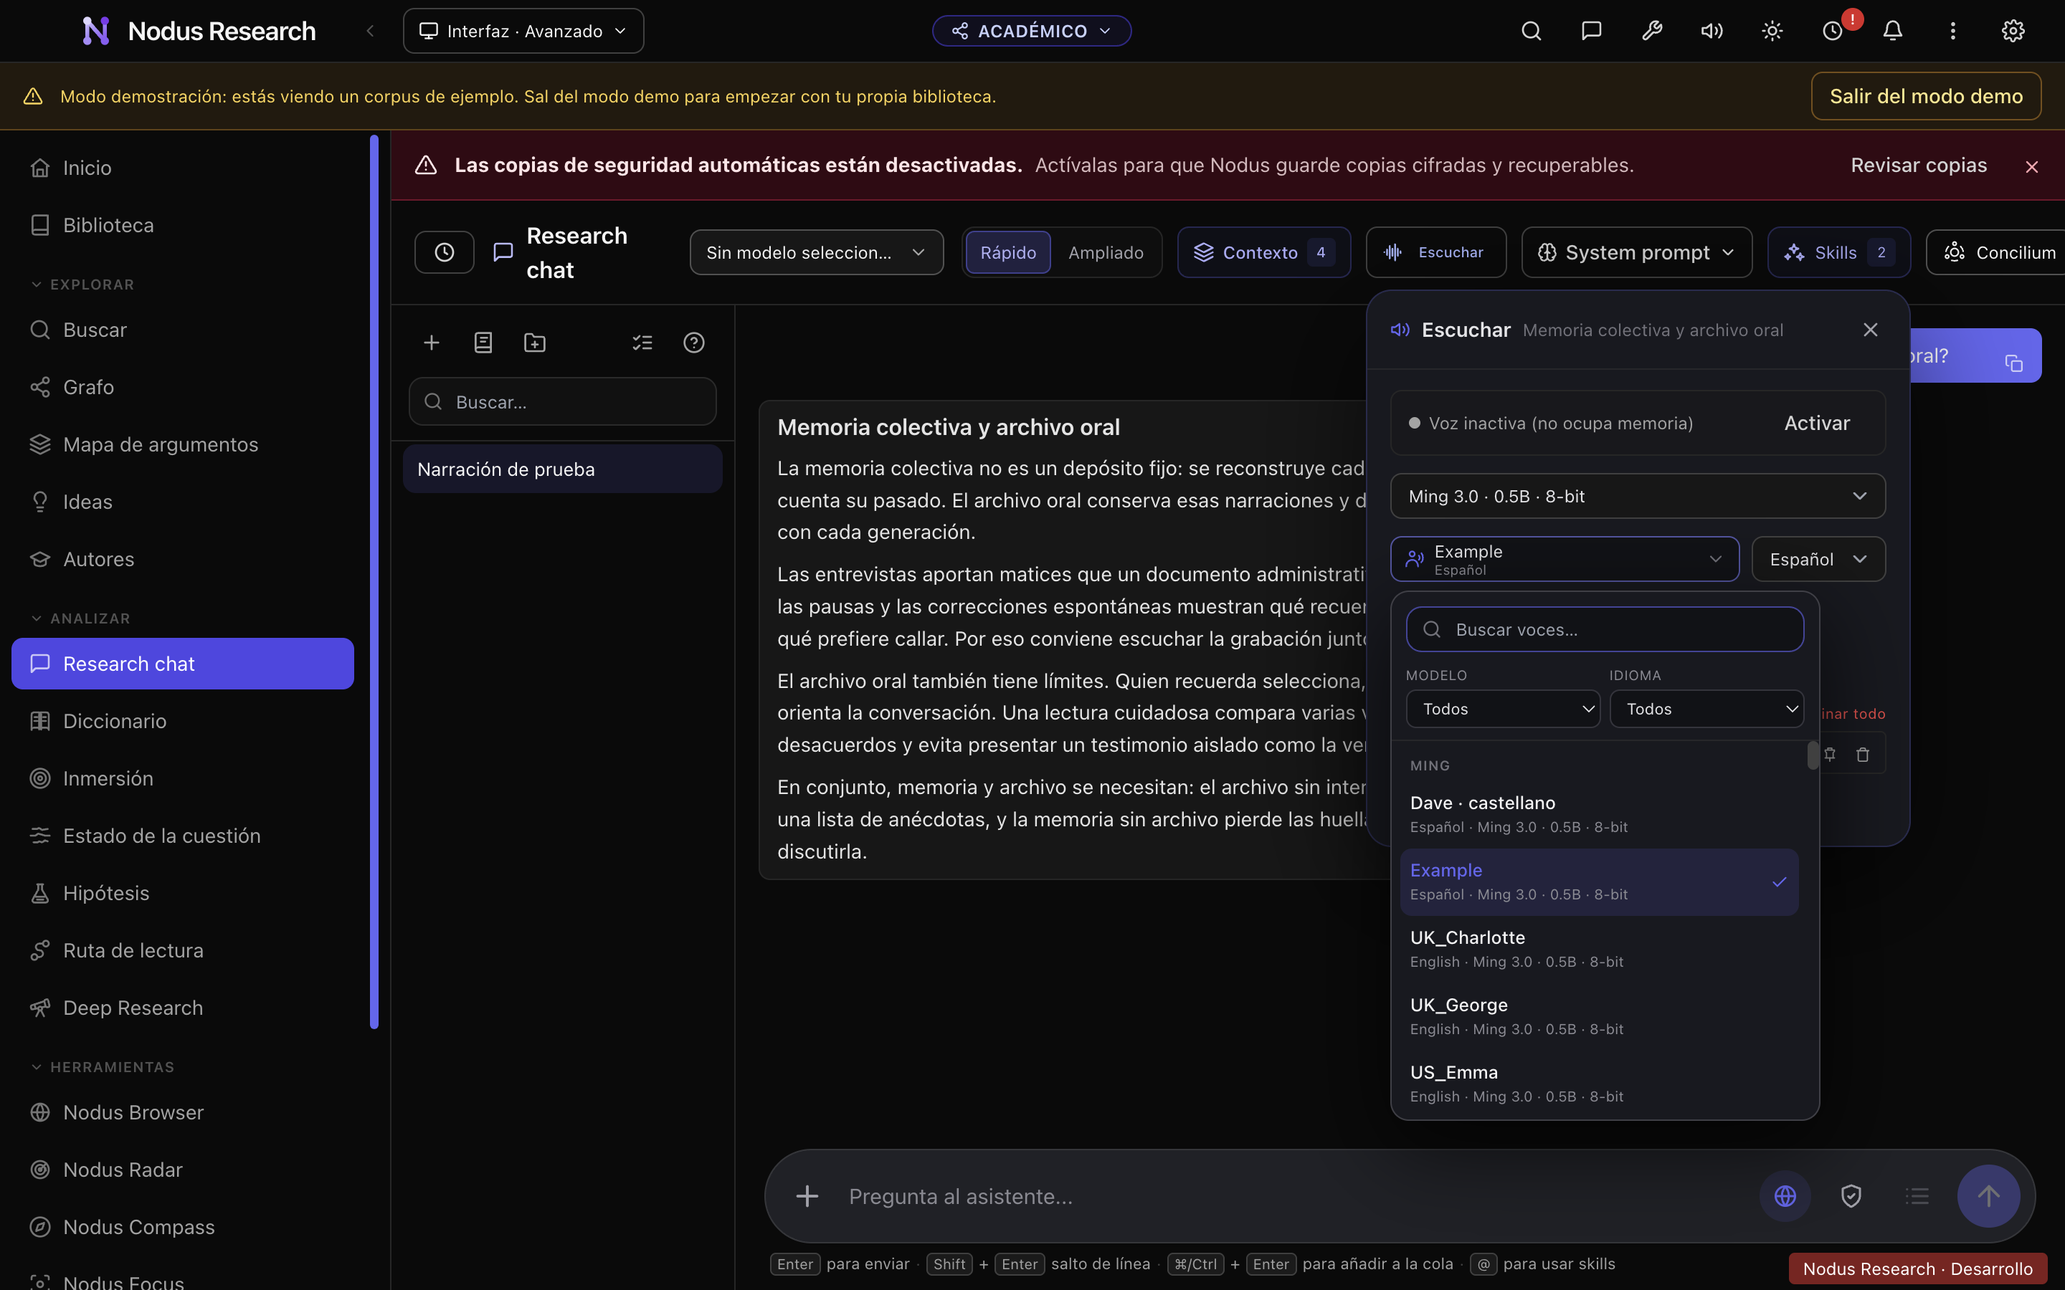
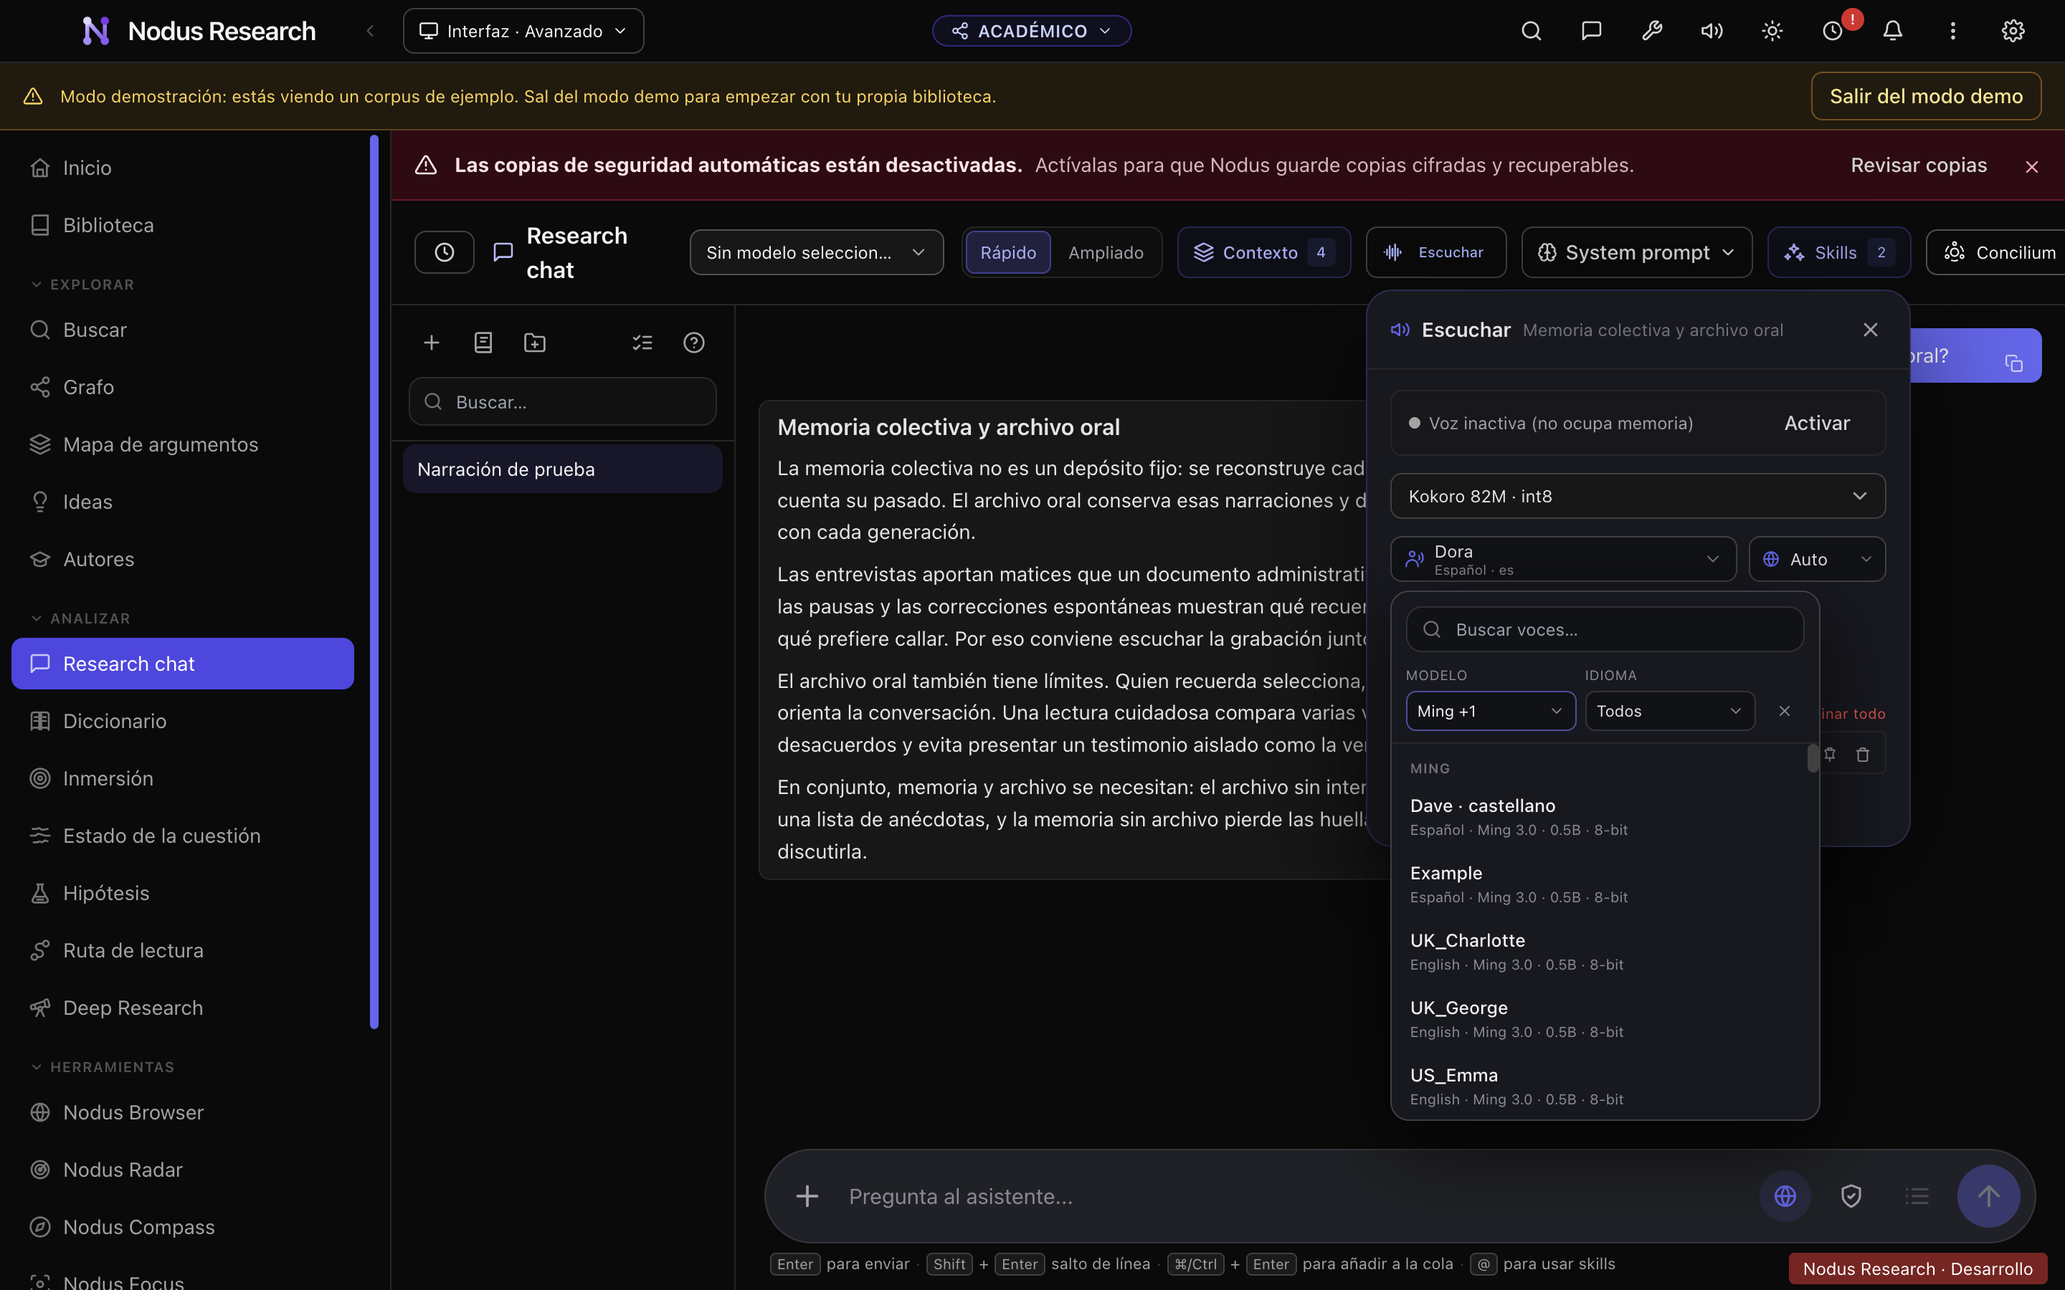
feat(narration): style and multi-select the voice filters
The model and language filters are now styled multi-select menus with checkboxes, an explicit Todos choice and a compact per-voice summary, so one or several engines and languages can be combined. The narration language select uses the same styled surface with an icon and chevron. Verified Ming+Kokoro (140 voices), Español+English (39), clear back to 242, dark/light panels and Escape layering.

diff --git a/src/components/narration/VoicePicker.tsx b/src/components/narration/VoicePicker.tsx
@@ -29,8 +29,9 @@ export function VoicePicker({ options, value, selectedName, onSelect, disabled =
 }) {
   const [open, setOpen] = useState(false);
   const [query, setQuery] = useState('');
-  const [engine, setEngine] = useState<'all' | 'ming' | 'phonon' | 'kokoro'>('all');
-  const [language, setLanguage] = useState<'all' | TtsLanguage>('all');
+  const [engineFilter, setEngineFilter] = useState<Array<'ming' | 'phonon' | 'kokoro'>>([]);
+  const [languageFilter, setLanguageFilter] = useState<TtsLanguage[]>([]);
+  const [openFilter, setOpenFilter] = useState<'engine' | 'language' | null>(null);
   const trigger = useRef<HTMLButtonElement>(null);
   const popup = useRef<HTMLDivElement>(null);
   const search = useRef<HTMLInputElement>(null);
@@ -50,8 +51,8 @@ export function VoicePicker({ options, value, selectedName, onSelect, disabled =
   const filtered = useMemo(() => {
     const needle = normalize(query.trim());
     return options.filter((option) => {
-      if (engine !== 'all' && option.engine !== engine) return false;
-      if (language !== 'all' && option.voice.language !== language) return false;
+      if (engineFilter.length && !engineFilter.includes(option.engine)) return false;
+      if (languageFilter.length && !languageFilter.includes(option.voice.language)) return false;
       if (!needle) return true;
       const languageLabel = TTS_LANGUAGES.find((entry) => entry.code === option.voice.language)?.label ?? '';
       return normalize([option.voice.name, option.voice.locale ?? '', option.voice.description ?? '', languageLabel].join(' ')).includes(needle);
@@ -60,13 +61,25 @@ export function VoicePicker({ options, value, selectedName, onSelect, disabled =
       return order[a.engine] - order[b.engine]
         || a.voice.name.localeCompare(b.voice.name, undefined, { sensitivity: 'base', numeric: true });
     });
-  }, [options, engine, language, query]);
+  }, [options, engineFilter, languageFilter, query]);
 
   const groups = useMemo(() => {
     const byEngine = new Map<'ming' | 'phonon' | 'kokoro', VoicePickerOption[]>();
     for (const option of filtered) byEngine.set(option.engine, [...(byEngine.get(option.engine) ?? []), option]);
     return [...byEngine.entries()];
   }, [filtered]);
+
+  const engineSummary = engineFilter.length === 0
+    ? t('Todos')
+    : engineFilter.length === 1
+      ? engines.find(([id]) => id === engineFilter[0])?.[1] ?? t('Todos')
+      : `${engines.find(([id]) => id === engineFilter[0])?.[1] ?? ''} +${engineFilter.length - 1}`;
+  const languageSummary = languageFilter.length === 0
+    ? t('Todos')
+    : languageFilter.length === 1
+      ? languages.find((entry) => entry.code === languageFilter[0])?.label ?? t('Todos')
+      : `${languages.find((entry) => entry.code === languageFilter[0])?.label ?? ''} +${languageFilter.length - 1}`;
+  const toggle = <T,>(list: T[], value: T) => list.includes(value) ? list.filter((entry) => entry !== value) : [...list, value];
 
   const close = (restoreFocus = true) => {
     setOpen(false);
@@ -130,10 +143,11 @@ export function VoicePicker({ options, value, selectedName, onSelect, disabled =
 
   return <div className="voice-picker" onKeyDown={(event) => {
     if (event.key === 'Escape' && open) {
-      // The header balloon closes on a handled Escape too; keep the picker layer first.
+      // First close the filter panel, then the picker; never the header balloon.
       event.preventDefault();
       event.stopPropagation();
-      close();
+      if (openFilter) setOpenFilter(null);
+      else close();
     }
   }}>
     <button
@@ -179,23 +193,30 @@ export function VoicePicker({ options, value, selectedName, onSelect, disabled =
         />
       </label>
       <div className="voice-picker-filters">
-        <label className="voice-picker-filter">
-          <span>{t('Modelo')}</span>
-          <select aria-label={t('Modelo')} value={engine} onChange={(event) => setEngine(event.target.value as typeof engine)} data-testid="listen-voice-filter-model">
-            <option value="all">{t('Todos')}</option>
-            {engines.map(([id, name]) => <option key={id} value={id}>{name}</option>)}
-          </select>
-        </label>
-        <label className="voice-picker-filter">
-          <span>{t('Idioma')}</span>
-          <select aria-label={t('Idioma')} value={language} onChange={(event) => setLanguage(event.target.value as typeof language)} data-testid="listen-voice-filter-language">
-            <option value="all">{t('Todos')}</option>
-            {languages.map((entry) => <option key={entry.code} value={entry.code}>{entry.label}</option>)}
-          </select>
-        </label>
-        {(engine !== 'all' || language !== 'all' || query) && <button type="button" className="voice-picker-clear" onClick={() => { setEngine('all'); setLanguage('all'); setQuery(''); }} title={t('Limpiar')} aria-label={t('Limpiar')}><Icon name="x" size={12} /></button>}
+        <div className="voice-picker-filter">
+          <span className="voice-picker-filter-label">{t('Modelo')}</span>
+          <button type="button" className={`voice-picker-filter-trigger ${openFilter === 'engine' ? 'is-open' : ''}`} aria-label={t('Modelo')} aria-haspopup="listbox" aria-expanded={openFilter === 'engine'} data-testid="listen-voice-filter-model" onClick={() => setOpenFilter((value) => value === 'engine' ? null : 'engine')}>
+            <span>{engineSummary}</span><Icon name="chevronDown" size={12} />
+          </button>
+        </div>
+        <div className="voice-picker-filter">
+          <span className="voice-picker-filter-label">{t('Idioma')}</span>
+          <button type="button" className={`voice-picker-filter-trigger ${openFilter === 'language' ? 'is-open' : ''}`} aria-label={t('Idioma')} aria-haspopup="listbox" aria-expanded={openFilter === 'language'} data-testid="listen-voice-filter-language" onClick={() => setOpenFilter((value) => value === 'language' ? null : 'language')}>
+            <span>{languageSummary}</span><Icon name="chevronDown" size={12} />
+          </button>
+        </div>
+        {(engineFilter.length > 0 || languageFilter.length > 0 || query) && <button type="button" className="voice-picker-clear" onClick={() => { setEngineFilter([]); setLanguageFilter([]); setQuery(''); setOpenFilter(null); }} title={t('Limpiar')} aria-label={t('Limpiar')}><Icon name="x" size={12} /></button>}
       </div>
-      <div className="voice-picker-list" id={listId} role="listbox" aria-label={t('Todas las voces')}>
+      {openFilter === 'engine' || openFilter === 'language' ? <div className="voice-picker-choice-panel" role="listbox" aria-multiselectable="true" aria-label={openFilter === 'engine' ? t('Modelo') : t('Idioma')} data-testid="listen-voice-filter-panel">
+        <div className="voice-picker-choice-head"><strong>{openFilter === 'engine' ? t('Modelo') : t('Idioma')}</strong><button type="button" className="voice-picker-choice-close" aria-label={t('Cerrar')} title={t('Cerrar')} onClick={() => setOpenFilter(null)}><Icon name="x" size={12} /></button></div>
+        <label className="voice-picker-choice">
+          <input type="checkbox" checked={(openFilter === 'engine' ? engineFilter : languageFilter).length === 0} onChange={() => { if (openFilter === 'engine') setEngineFilter([]); else setLanguageFilter([]); }} />
+          <span>{t('Todos')}</span>
+        </label>
+        {openFilter === 'engine'
+          ? engines.map(([id, name]) => <label key={id} className="voice-picker-choice"><input type="checkbox" checked={engineFilter.includes(id)} onChange={() => setEngineFilter((current) => toggle(current, id))} /><span>{name}</span></label>)
+          : languages.map((entry) => <label key={entry.code} className="voice-picker-choice"><input type="checkbox" checked={languageFilter.includes(entry.code)} onChange={() => setLanguageFilter((current) => toggle(current, entry.code))} /><span>{entry.label}</span></label>)}
+      </div> : <div className="voice-picker-list" id={listId} role="listbox" aria-label={t('Todas las voces')}>
         {groups.map(([group, entries]) => <div key={group} className="voice-picker-group">
           <div className="voice-picker-group-label">{group === 'ming' ? 'Ming' : group === 'phonon' ? 'Phonon' : 'Kokoro'}</div>
           {entries.map((option) => {
@@ -220,7 +241,7 @@ export function VoicePicker({ options, value, selectedName, onSelect, disabled =
           })}
         </div>)}
         {!filtered.length && <p className="voice-picker-empty">{t('Ninguna voz coincide con los filtros.')}</p>}
-      </div>
+      </div>}
     </div>}
   </div>;
 }

diff --git a/src/components/narration/voicePicker.css b/src/components/narration/voicePicker.css
@@ -46,22 +46,24 @@
 .voice-picker-search { margin: 10px 10px 8px; flex-shrink: 0; }
 .voice-picker-search > input { height: 32px; font-size: 12px; }
 .voice-picker-filters { display: flex; align-items: flex-end; gap: 6px; padding: 0 10px 8px; flex-shrink: 0; }
-.voice-picker-filter { display: flex; min-width: 0; flex: 1; flex-direction: column; gap: 2px; color: #8b8b94; font-size: 9.5px; text-transform: uppercase; letter-spacing: .03em; }
-.voice-picker-filter select {
-  width: 100%;
-  min-width: 0;
-  height: 27px;
-  padding: 0 22px 0 7px;
-  border: 1px solid #34343c;
-  border-radius: 7px;
-  background: #111217;
-  color: #e4e4e7;
-  font-size: 11px;
-  text-transform: none;
-  letter-spacing: 0;
-}
-.voice-picker-clear { display: grid; place-items: center; flex-shrink: 0; width: 27px; height: 27px; border-radius: 7px; color: #8b8b94; }
+.voice-picker-filter { display: flex; min-width: 0; flex: 1; flex-direction: column; gap: 3px; }
+.voice-picker-filter-label { color: #8b8b94; font-size: 9.5px; text-transform: uppercase; letter-spacing: .03em; }
+.voice-picker-filter-trigger { display: flex; align-items: center; gap: 4px; width: 100%; min-width: 0; height: 28px; padding: 0 7px; border: 1px solid #34343c; border-radius: 7px; background: #111217; color: #e4e4e7; font-size: 11px; text-align: left; }
+.voice-picker-filter-trigger > span { flex: 1; min-width: 0; overflow: hidden; text-overflow: ellipsis; white-space: nowrap; }
+.voice-picker-filter-trigger > svg { flex-shrink: 0; color: #8b8b94; transition: transform .15s ease; }
+.voice-picker-filter-trigger:hover, .voice-picker-filter-trigger.is-open { border-color: color-mix(in srgb, var(--vault-accent) 55%, #34343c); color: #f4f4f5; }
+.voice-picker-filter-trigger.is-open > svg { transform: rotate(180deg); color: var(--vault-accent); }
+.voice-picker-clear { display: grid; place-items: center; flex-shrink: 0; width: 28px; height: 28px; border-radius: 7px; color: #8b8b94; }
 .voice-picker-clear:hover { background: #27272a; color: #f4f4f5; }
+
+.voice-picker-choice-panel { min-height: 0; flex: 1; overflow-y: auto; overscroll-behavior: contain; padding: 2px 7px 8px; border-top: 1px solid #27272a; }
+.voice-picker-choice-head { display: flex; align-items: center; justify-content: space-between; padding: 8px 7px 4px; color: #8b8b94; font-size: 9.5px; font-weight: 600; text-transform: uppercase; letter-spacing: .05em; }
+.voice-picker-choice-close { display: grid; place-items: center; width: 22px; height: 22px; border-radius: 6px; color: #8b8b94; }
+.voice-picker-choice-close:hover { background: #27272a; color: #f4f4f5; }
+.voice-picker-choice { display: flex; align-items: center; gap: 8px; padding: 7px 8px; border-radius: 8px; color: #e4e4e7; font-size: 12px; cursor: pointer; }
+.voice-picker-choice:hover { background: #ffffff0d; }
+.voice-picker-choice input { flex-shrink: 0; width: 14px; height: 14px; margin: 0; accent-color: var(--vault-accent); }
+.voice-picker-choice > span { min-width: 0; overflow: hidden; text-overflow: ellipsis; white-space: nowrap; }
 
 .voice-picker-list { min-height: 0; flex: 1; overflow-y: auto; overscroll-behavior: contain; padding: 2px 6px 7px; border-top: 1px solid #27272a; }
 .voice-picker-group + .voice-picker-group { margin-top: 4px; }
@@ -76,11 +78,28 @@
 .voice-picker-option-text > small { overflow: hidden; text-overflow: ellipsis; white-space: nowrap; color: #8b8b94; font-size: 10px; }
 .voice-picker-empty { padding: 16px 10px; color: #a1a1aa; text-align: center; }
 
+
+/* The narration language select uses the same surface as the voice trigger. */
+.voice-picker-language { position: relative; display: flex; align-items: center; min-width: 5.5rem; width: 100%; height: 32px; border: 1px solid #3f3f46; border-radius: 8px; background: #111217; color: #e4e4e7; }
+.voice-picker-language > svg:first-child { flex-shrink: 0; margin-left: 8px; color: var(--vault-accent); }
+.voice-picker-language > svg:last-child { flex-shrink: 0; margin-right: 7px; color: #71717a; pointer-events: none; }
+.voice-picker-language:focus-within { border-color: color-mix(in srgb, var(--vault-accent) 65%, transparent); }
+.voice-picker-language-select { appearance: none; -webkit-appearance: none; min-width: 0; width: 100%; height: 100%; padding: 0 2px 0 7px; border: 0; outline: 0; background: transparent; color: inherit; font-size: 12px; cursor: pointer; }
+.voice-picker-language-select option { background: #18191f; color: #e4e4e7; }
+.light .voice-picker-language { background: #fff; border-color: #d4d4d8; color: #27272a; }
+.light .voice-picker-language > svg:last-child { color: #71717a; }
+.light .voice-picker-language-select option { background: #fff; color: #27272a; }
+
 .light .voice-picker-trigger { background: #fff; border-color: #d4d4d8; color: #27272a; }
 .light .voice-picker-trigger-text > small { color: #71717a; }
 .light .voice-picker-popover { background: #fff; border-color: #d4d4d8; color: #27272a; box-shadow: 0 18px 60px #27272a26; }
-.light .voice-picker-filter { color: #71717a; }
-.light .voice-picker-filter select { background: #fff; border-color: #e4e4e7; color: #27272a; }
+.light .voice-picker-filter-label { color: #71717a; }
+.light .voice-picker-filter-trigger { background: #fff; border-color: #e4e4e7; color: #27272a; }
+.light .voice-picker-filter-trigger:hover, .light .voice-picker-filter-trigger.is-open { color: #18181b; }
+.light .voice-picker-choice-panel { border-top-color: #ececef; }
+.light .voice-picker-choice-head { color: #71717a; }
+.light .voice-picker-choice { color: #27272a; }
+.light .voice-picker-choice:hover { background: #f4f4f5; }
 .light .voice-picker-clear { color: #71717a; }
 .light .voice-picker-clear:hover { background: #f4f4f5; color: #18181b; }
 .light .voice-picker-list { border-top-color: #ececef; }

diff --git a/src/components/narration/Listen.tsx b/src/components/narration/Listen.tsx
@@ -280,12 +280,16 @@ export function ListenBalloon({ target, anchor, onClose, autoStart = false }: { 
         </select>}
         <div className="grid min-w-0 grid-cols-[minmax(0,1fr)_auto] gap-2">
           <VoicePicker options={voiceOptions} value={selectedVoiceId} selectedName={selectedVoiceName} onSelect={chooseVoice} disabled={!settings || !voiceOptions.length} />
-          <select className="input h-8 min-w-0 py-0 text-xs" aria-label={t('Idioma')} value={language} onChange={(event) => setLanguage(event.target.value as TtsLanguageSetting)} data-testid="listen-language">
-            <option value="auto">{t('Auto')}</option>
-            {TTS_LANGUAGES.filter((entry) => phononModel
-              ? (PHONON_LANGUAGES as readonly string[]).includes(entry.code)
-              : !model || model.languages.includes(entry.code)).map((entry) => <option key={entry.code} value={entry.code}>{entry.label}</option>)}
-          </select>
+          <label className="voice-picker-language" title={t('Idioma')}>
+            <Icon name="globe" size={13} />
+            <select className="voice-picker-language-select" aria-label={t('Idioma')} value={language} onChange={(event) => setLanguage(event.target.value as TtsLanguageSetting)} data-testid="listen-language">
+              <option value="auto">{t('Auto')}</option>
+              {TTS_LANGUAGES.filter((entry) => phononModel
+                ? (PHONON_LANGUAGES as readonly string[]).includes(entry.code)
+                : !model || model.languages.includes(entry.code)).map((entry) => <option key={entry.code} value={entry.code}>{entry.label}</option>)}
+            </select>
+            <Icon name="chevronDown" size={12} />
+          </label>
         </div>
         <button className="justify-self-start text-[11px] text-indigo-600 hover:underline dark:text-indigo-300" onClick={() => { onClose(); window.dispatchEvent(new Event('nodus:open-narration-settings')); }}>
           <Icon name="microphone" size={10} /> {t('Grabar o subir una voz…')}

diff --git a/docs/narration-ming.md b/docs/narration-ming.md
@@ -21,10 +21,12 @@ opens the same Listen balloon and starts the saved clip or generation on the fir
 the per-answer icon still opens the balloon without starting.
 
 The balloon's voice selector is a styled list, not a native select: it has a search box and
-model/language filters. It lists the voices of every platform-supported checkpoint and
-selecting one carries the checkpoint that speaks its language (Phonon's per-language model
-first, otherwise its multilingual one; Kokoro has one checkpoint for both languages), so
-choosing a voice can switch the model.
+model/language filters that accept one or several choices (Ming, Phonon, Kokoro; any
+combination of languages). The narration language select uses the same styled surface. The
+picker lists the voices of every platform-supported checkpoint and selecting one carries
+the checkpoint that speaks its language (Phonon's per-language model first, otherwise its
+multilingual one; Kokoro has one checkpoint for both languages), so choosing a voice can
+switch the model.
 
 ## Architecture
 
